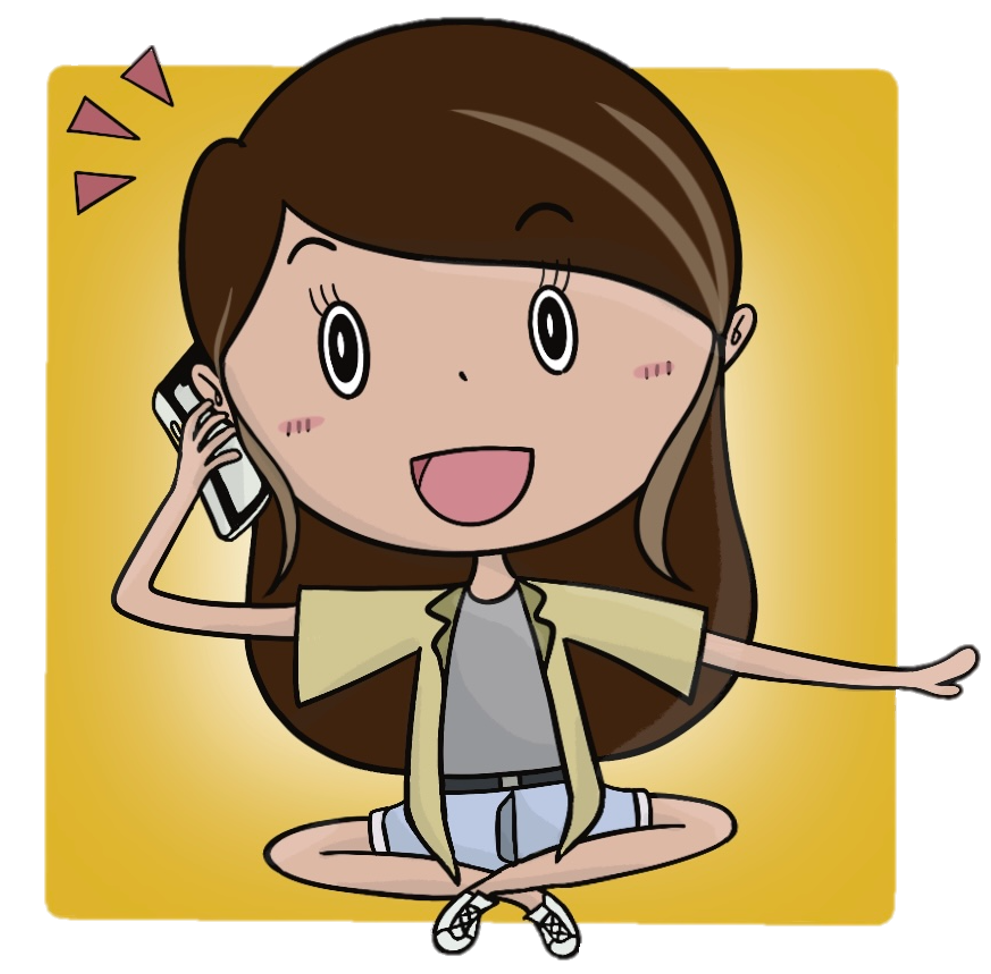
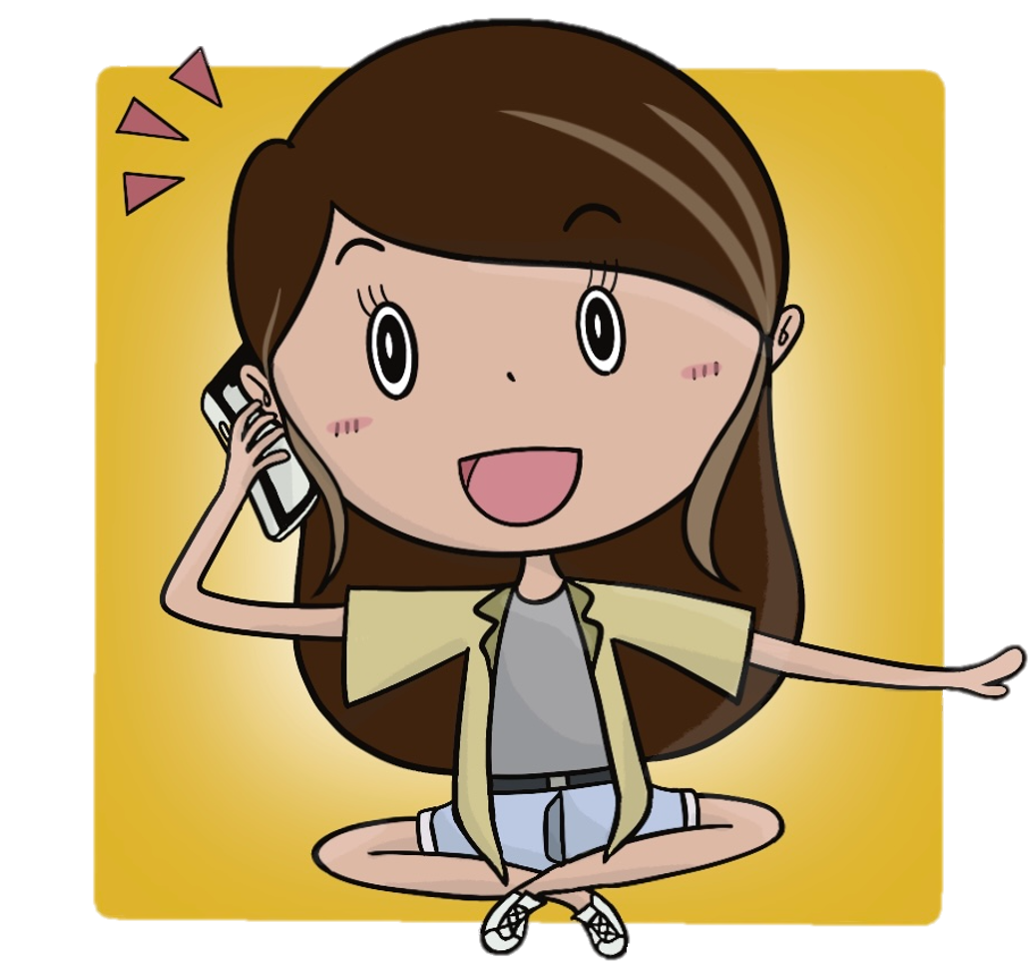
center the contact image

diff --git a/src/components/Contact.js b/src/components/Contact.js
@@ -59,7 +59,7 @@ export const Contact = () => {
             <TrackVisibility>
                 {({ isVisible }) =>
                     <div className={isVisible ? "animate__animated animate__zoomIn" : ""}>
-                    <img src={headerImg} alt="Contact Img"/> 
+                      <img src={headerImg} alt="Contact Img"/> 
                     </div>}
                 </TrackVisibility>
           </Col>

diff --git a/src/App.css b/src/App.css
@@ -597,9 +597,14 @@ nav.navbar .navbar-toggler[aria-expanded="true"] .navbar-toggler-icon {
   /* background-image: url('./assets/img/banner-bg.png'); */
   padding: 100px 0 100px 0;
   overflow-x: hidden;
+  display: flex;
+  justify-content: center;
+  align-items: center;
 }
 .contact img {
   width: 70%;
+  display: block;
+  margin: 0 auto;
 }
 .contact h2 {
   color: #000000;
